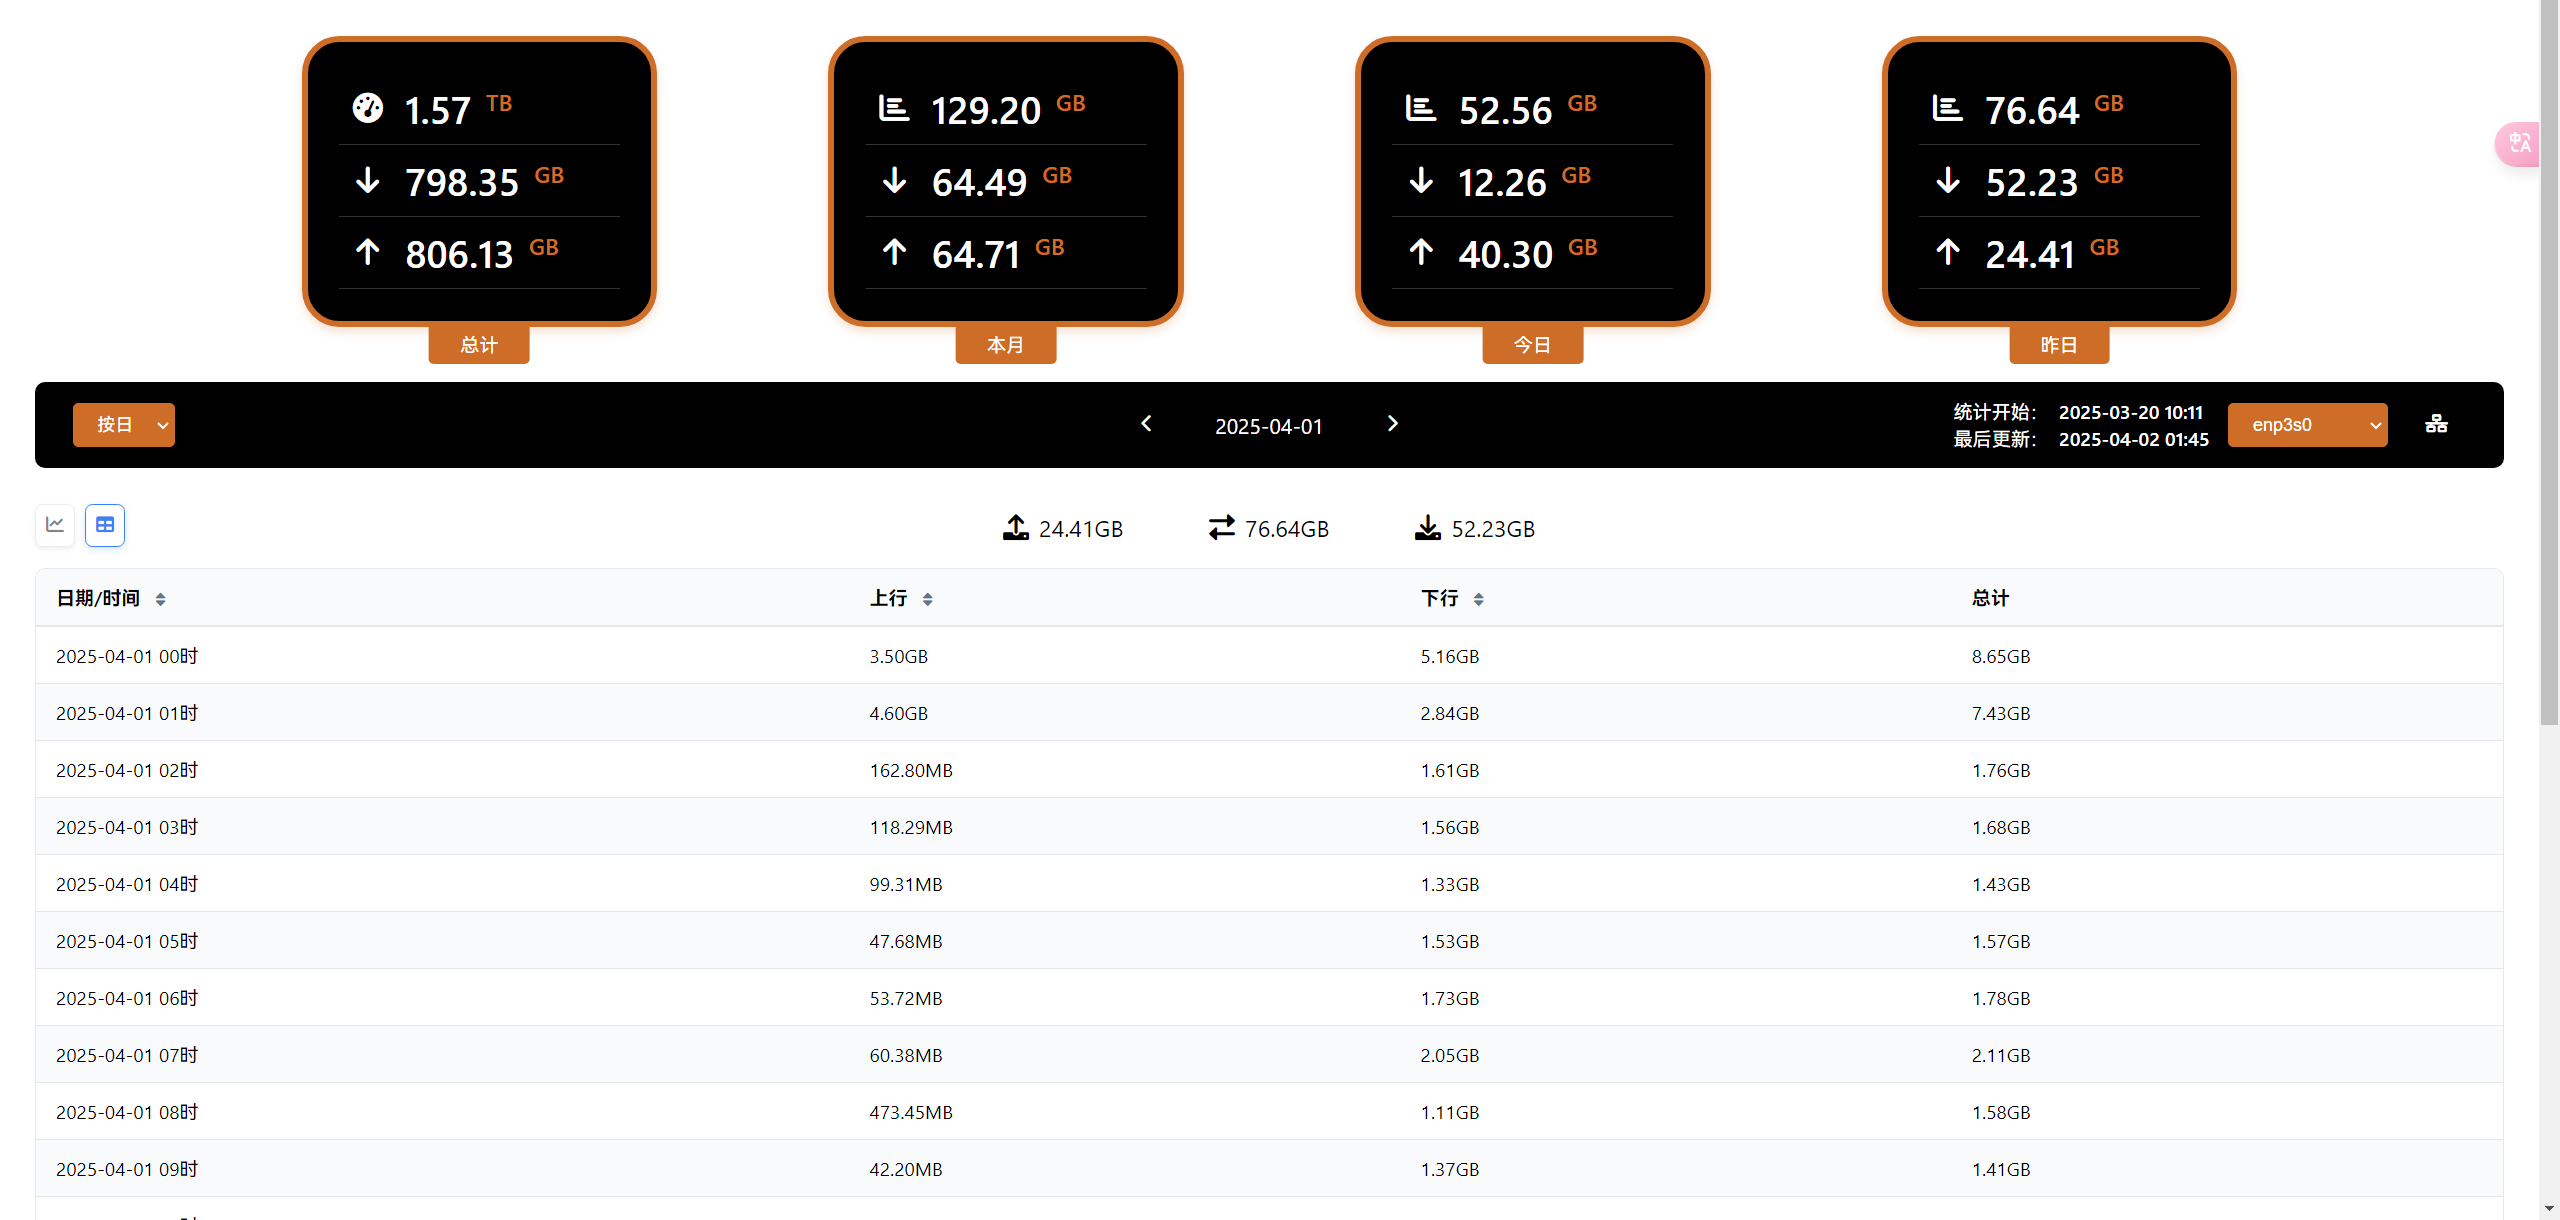
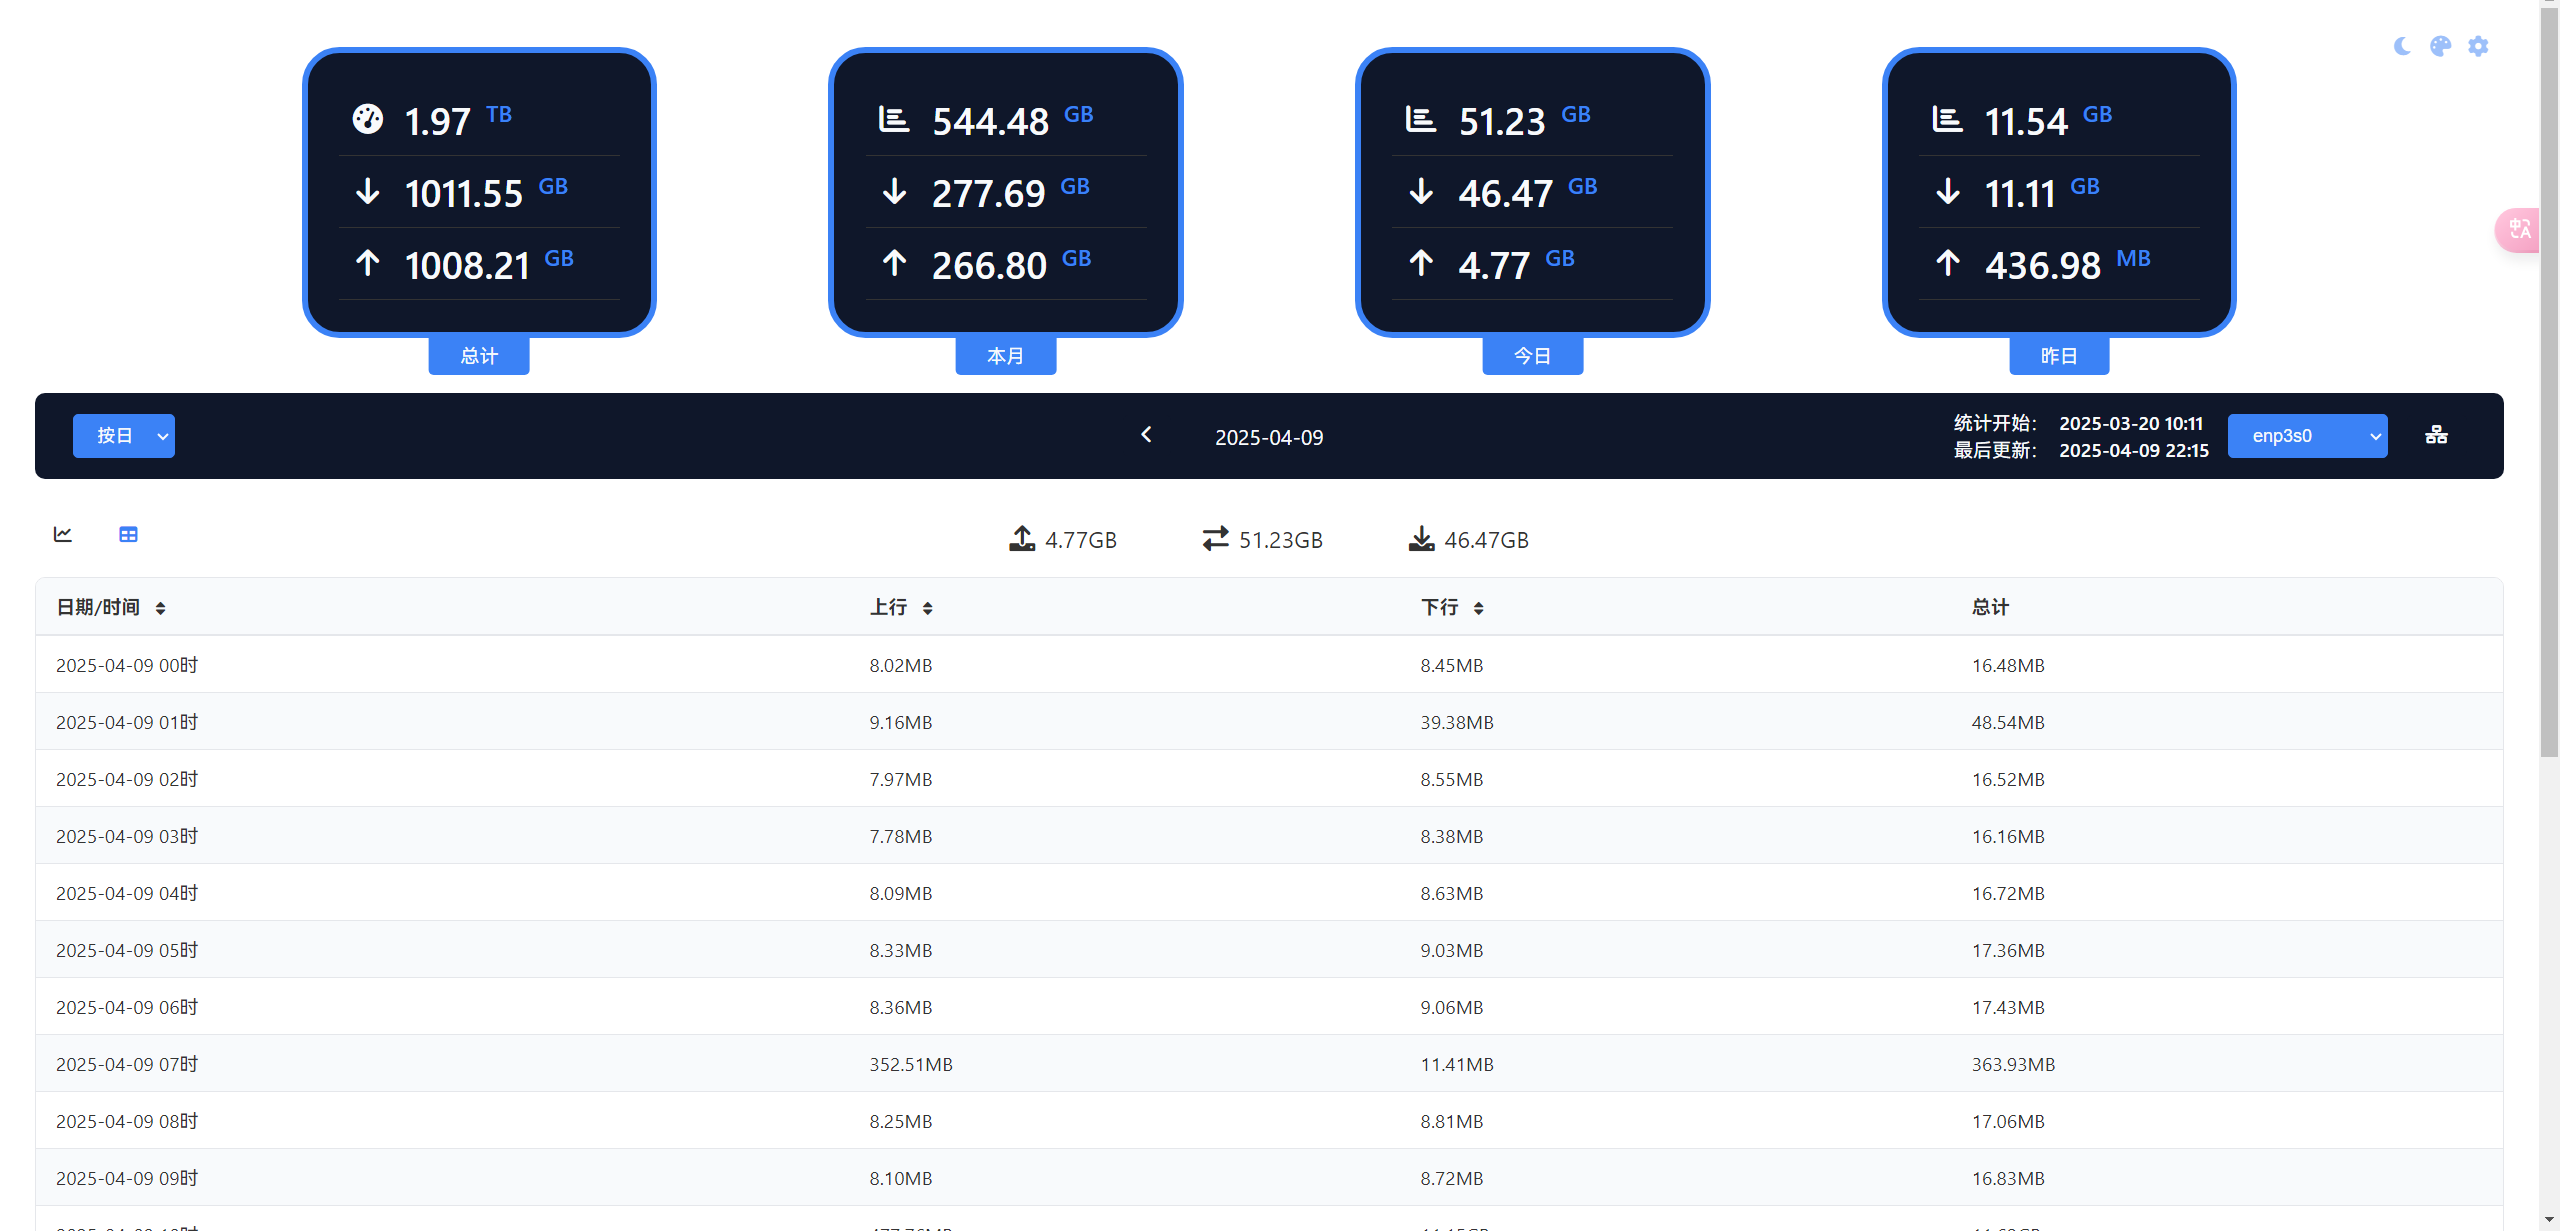
update README

diff --git a/README.md b/README.md
@@ -20,22 +20,25 @@
 
 由于 vnstat 的 api 能够返回的历史日期数据是有限的，所以写了个定时脚本用于定时请求 vnstat api 备份数据
 
-2025-04-04 🍾已实现自动调用备份数据进行展示,可页面配置是否启用
-
 提供简易 python 服务能够请求指定日期的备份数据
 
 同时实现了账号密码 token 验证，作为统一入口，防止未授权查看统计数据
 
+2025-04-04 已实现自动调用备份数据进行展示,可页面配置是否启用
+
+2025-04-09 增加了主题设置和自动夜间模式
 文件结构
 
 ```
-vnstat-assist ->备份操作文件夹
+vnstat-assist ->总目录
   -shell
     -vnstat_backup.sh ->请求接口并保存昨天数据的脚本
   -api
     -api_server.py ->python api服务，获取本地文件并响应
   -www
     -vnstat_web.html -> vnstat面板
+  -nginx
+    -nginx.conf -> nginx配置，用于接口和页面统一出口
   -Dockerfile
   -docker-compose.yml
 ```
@@ -73,3 +76,7 @@ location ~ ^/assist-vnstat(/.*)$ {
 ![2](screenshots/2.png)
 
 ![2](screenshots/3.png)
+
+![2](screenshots/4.png)
+
+![2](screenshots/5.png)
